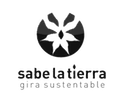
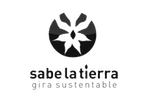
friends page

Changed region(s): [[0.1488, 0.63, 0.8926, 0.9], [0.2975, 0.12, 0.719, 0.57]]

diff --git a/wp-content/themes/newspress/custom/custom.css b/wp-content/themes/newspress/custom/custom.css
@@ -479,6 +479,6 @@ input.search-input {
 }
 
 #friends-page td.friend-logo {
-    width: 200px;
+    width: 145px;
 }
 /*     End-Friends Page     *******************************************************************************************/

diff --git a/wp-content/themes/newspress/footer.php b/wp-content/themes/newspress/footer.php
@@ -7,7 +7,7 @@
     </div>
 
     <div id="footer-colaborators" class="footer-column">
-        <h2>¿Querés ser voluntario?</h2>
+        <h2><a href="<?php echo get_site_url()?>/staff/" class="no-decoration">¿Querés ser voluntario?</a></h2>
         <p>Te invitamos a sumarte a nuestra ONG escribiéndonos a <a href="mailto:voluntarios@ecomania.org.ar">voluntarios@ecomania.org.ar</a></p>
         <div class="color-line"></div>
     </div>
